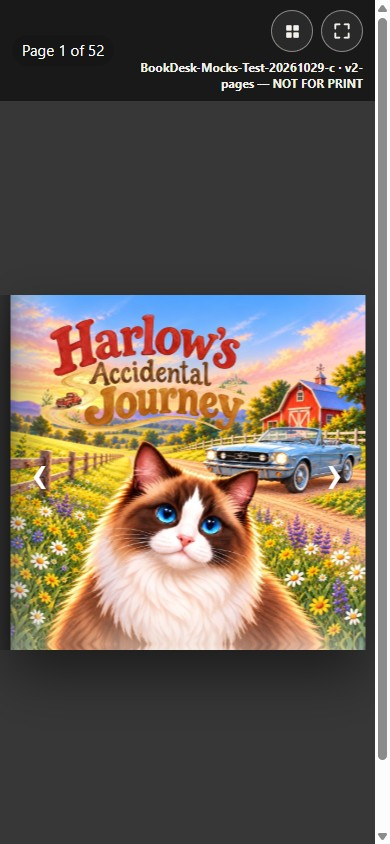
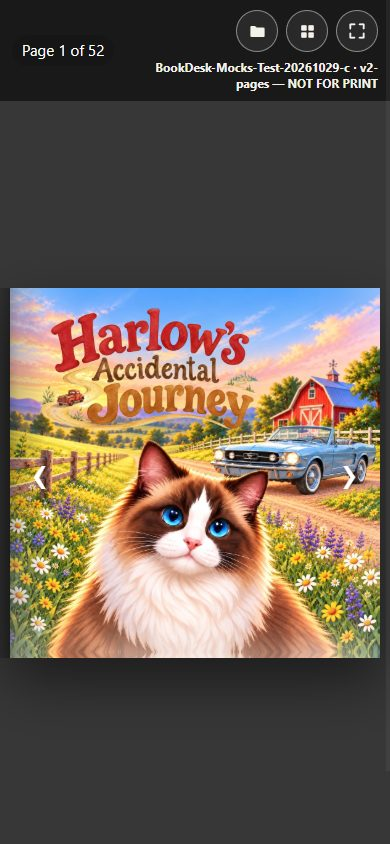
Open a folder of page images in the same viewer.
A folder or a drop of pictures becomes the book: numbered names stay in order, a wide picture splits at the fold, and a missing number is only a warning.

diff --git a/flipbook18.html b/flipbook18.html
@@ -11,9 +11,16 @@
   #counter{background:rgba(20,20,20,.55);color:#fff;border-radius:999px;padding:6px 12px;white-space:nowrap}
   #mark{white-space:nowrap}
   #notice{display:none;position:absolute;left:12px;right:12px;bottom:12px;z-index:8;background:rgba(20,20,20,.88);color:#f4f1ea;border-radius:10px;padding:8px 12px;font-size:13px;pointer-events:none}
-  #fs,#pagesBtn{flex:0 0 auto;width:42px;height:42px;padding:0;display:inline-flex;align-items:center;justify-content:center;background:rgba(255,255,255,.07);color:#f4f1ea;border:1px solid rgba(244,241,234,.45);border-radius:50%;cursor:pointer;font:inherit}
+  #folderPop{position:absolute;top:62px;right:18px;z-index:9;display:flex;flex-direction:column;gap:10px;background:#242424;color:#f4f1ea;border:1px solid rgba(244,241,234,.35);border-radius:12px;padding:12px 14px;font-size:14px}
+  #folderPop[hidden]{display:none}
+  #folderPop label{display:flex;align-items:center;gap:8px}
+  #folderGo{background:#e8b34b;color:#191919;border:0;border-radius:999px;padding:8px 12px;font:inherit;cursor:pointer}
+  #loadBar{position:absolute;left:0;right:0;top:0;height:3px;z-index:7;background:transparent}
+  #loadBar[hidden]{display:none}
+  #loadFill{height:100%;width:0;background:#e8b34b}
+  #fs,#pagesBtn,#folderBtn{flex:0 0 auto;width:42px;height:42px;padding:0;display:inline-flex;align-items:center;justify-content:center;background:rgba(255,255,255,.07);color:#f4f1ea;border:1px solid rgba(244,241,234,.45);border-radius:50%;cursor:pointer;font:inherit}
   #fs svg{width:20px;height:20px;stroke:#f4f1ea;fill:none;stroke-width:2.2;stroke-linecap:round;stroke-linejoin:round;display:block}
-  #pagesBtn svg{width:19px;height:19px;fill:#f4f1ea;display:block}
+  #pagesBtn svg,#folderBtn svg{width:19px;height:19px;fill:#f4f1ea;display:block}
   #stage{flex:1;width:100%;min-height:0;background:#373737;display:flex;align-items:center;justify-content:center;position:relative;overflow:hidden}
   #bookWrap{position:relative;z-index:1;cursor:grab;touch-action:none;will-change:transform}
   #bookWrap.grabbing{cursor:grabbing}
@@ -63,7 +70,8 @@
 </style></head>
 <body>
   <div id="viewer">
-    <div id="banner"><span id="counter">Page 1 of 52</span><span id="tools"><strong id="mark">BookDesk-Mocks-Test-20261029-c · v2-pages — NOT FOR PRINT</strong><button id="pagesBtn" type="button" aria-label="Pages" title="Pages"><svg viewBox="0 0 24 24" aria-hidden="true"><rect x="4" y="4" width="7" height="7" rx="1.5"/><rect x="13" y="4" width="7" height="7" rx="1.5"/><rect x="4" y="13" width="7" height="7" rx="1.5"/><rect x="13" y="13" width="7" height="7" rx="1.5"/></svg></button><button id="fs" type="button" aria-label="Full screen"><svg viewBox="0 0 24 24" aria-hidden="true"><path d="M9 4H4v5M15 4h5v5M9 20H4v-5M15 20h5v-5"/></svg></button></span></div>
+    <div id="loadBar" hidden><div id="loadFill"></div></div>
+    <div id="banner"><span id="counter">Page 1 of 52</span><span id="tools"><strong id="mark">BookDesk-Mocks-Test-20261029-c · v2-pages — NOT FOR PRINT</strong><button id="folderBtn" type="button" aria-label="Open a folder of images" title="Open a folder of images"><svg viewBox="0 0 24 24" aria-hidden="true"><path d="M3 6.5A1.5 1.5 0 0 1 4.5 5H9l2 2h8.5A1.5 1.5 0 0 1 21 8.5v9A1.5 1.5 0 0 1 19.5 19h-15A1.5 1.5 0 0 1 3 17.5z"/></svg></button><button id="pagesBtn" type="button" aria-label="Pages" title="Pages"><svg viewBox="0 0 24 24" aria-hidden="true"><rect x="4" y="4" width="7" height="7" rx="1.5"/><rect x="13" y="4" width="7" height="7" rx="1.5"/><rect x="4" y="13" width="7" height="7" rx="1.5"/><rect x="13" y="13" width="7" height="7" rx="1.5"/></svg></button><button id="fs" type="button" aria-label="Full screen"><svg viewBox="0 0 24 24" aria-hidden="true"><path d="M9 4H4v5M15 4h5v5M9 20H4v-5M15 20h5v-5"/></svg></button></span></div>
     <div id="stage">
       <button id="prev" class="arrow" type="button" aria-label="Previous">&#8249;</button>
       <button id="next" class="arrow" type="button" aria-label="Next">&#8250;</button>
@@ -81,6 +89,8 @@
         <div id="spineShade"></div>
       </div></div></div>
     </div>
+    <div id="folderPop" hidden><label><input id="coverFirst" type="checkbox" checked> First image is the cover</label><button id="folderGo" type="button">Choose folder</button></div>
+    <input id="folderPick" type="file" accept=".jpg,.jpeg,.png,.webp,image/jpeg,image/png,image/webp" webkitdirectory multiple hidden>
     <div id="notice" role="status"></div>
     <div id="sheet" aria-hidden="true">
       <div id="sheetBar"><span id="sheetTitle">Pages — tap one to jump there</span><button id="sheetClose" type="button" aria-label="Close pages"><svg viewBox="0 0 24 24" aria-hidden="true"><path d="M6 6l12 12M18 6L6 18"/></svg></button></div>
@@ -258,6 +268,7 @@
     var pageSize = 300;
     var camX = 0, camAnim = null;
     var animating = false;
+    var pendingBook = false;
     var pendingDir = null;   // one-deep queue: a tap mid-flip lines up the next turn
     var REDUCED = !!(window.matchMedia && window.matchMedia("(prefers-reduced-motion: reduce)").matches);
     var FLIP_MS = REDUCED ? 320 : 950;
@@ -293,15 +304,17 @@
       counter.textContent = label();
     }
 
+    var blankNote = "";
     function label() {
+      var text;
       if (focusMode) {
-        if (flipped === 0) return "Page 1 of " + N;
-        if (flipped === HALF) return "Page " + N + " of " + N;
-        return "Page " + (focus === 0 ? 2 * flipped : 2 * flipped + 1) + " of " + N;
-      }
-      if (flipped === 0) return "Page 1 of " + N;
-      if (flipped === HALF) return "Page " + N + " of " + N;
-      return "Page " + (2 * flipped) + "–" + (2 * flipped + 1) + " of " + N;
+        if (flipped === 0) text = "Page 1 of " + N;
+        else if (flipped === HALF) text = "Page " + N + " of " + N;
+        else text = "Page " + (focus === 0 ? 2 * flipped : 2 * flipped + 1) + " of " + N;
+      } else if (flipped === 0) text = "Page 1 of " + N;
+      else if (flipped === HALF) text = "Page " + N + " of " + N;
+      else text = "Page " + (2 * flipped) + "–" + (2 * flipped + 1) + " of " + N;
+      return blankNote ? text + " · " + blankNote : text;
     }
 
     function render() {
@@ -458,6 +471,7 @@
         if (raw < 1) { requestAnimationFrame(frame); return; }
         hideLeaf();
         animating = false;
+        if (pendingBook) { pendingBook = false; render(); }
         if (onDone) onDone();
         if (pendingDir) {
           var pd = pendingDir;
@@ -723,6 +737,221 @@
       scheduleFit();
       if (sheet.classList.contains("open")) setTimeout(buildStrip, 260);
     });
+
+    /* Folder of images. The manifest book stays the default until a folder arrives. */
+    var blankCanvas = document.createElement("canvas");
+    blankCanvas.width = 8; blankCanvas.height = 8;
+    var blankCtx = blankCanvas.getContext("2d");
+    blankCtx.fillStyle = "#f4f1ea";
+    blankCtx.fillRect(0, 0, 8, 8);
+    var BLANK = blankCanvas.toDataURL("image/jpeg", 0.8);
+    var folderBtn = document.getElementById("folderBtn");
+    var folderPop = document.getElementById("folderPop");
+    var folderPick = document.getElementById("folderPick");
+    var loadBar = document.getElementById("loadBar");
+    var loadFill = document.getElementById("loadFill");
+    var folderGen = 0;
+    var tempBlank = false;
+    var coverOpened = false;
+    folderBtn.onclick = function () { folderPop.hidden = !folderPop.hidden; };
+    document.getElementById("folderGo").onclick = function () { folderPick.click(); };
+    folderPick.onchange = function () {
+      folderPop.hidden = true;
+      if (folderPick.files && folderPick.files.length) takeFiles(folderPick.files);
+      folderPick.value = "";
+    };
+    viewer.addEventListener("dragover", function (e) { e.preventDefault(); });
+    viewer.addEventListener("drop", function (e) {
+      e.preventDefault();
+      folderPop.hidden = true;
+      var items = e.dataTransfer && e.dataTransfer.items;
+      if (!items || !items.length) { takeFiles(e.dataTransfer.files); return; }
+      Promise.all([].map.call(items, readDropItem)).then(function (groups) {
+        var flat = [];
+        groups.forEach(function (g) { flat = flat.concat(g); });
+        takeFiles(flat);
+      });
+    });
+    function readDropItem(item) {
+      return new Promise(function (resolve) {
+        var entry = item.webkitGetAsEntry && item.webkitGetAsEntry();
+        if (!entry) { var one = item.getAsFile && item.getAsFile(); resolve(one ? [one] : []); return; }
+        if (entry.isFile) { entry.file(function (f) { resolve([f]); }, function () { resolve([]); }); return; }
+        var reader = entry.createReader();
+        var all = [];
+        function batch() {
+          reader.readEntries(function (entries) {
+            if (!entries.length) { resolve(all); return; }
+            var pending = entries.length;
+            entries.forEach(function (ent) {
+              if (!ent.isFile) { if (--pending === 0) batch(); return; }
+              ent.file(function (f) { all.push(f); if (--pending === 0) batch(); }, function () { if (--pending === 0) batch(); });
+            });
+          }, function () { resolve(all); });
+        }
+        batch();
+      });
+    }
+    function isPageFile(file) {
+      var name = (file.name || "").toLowerCase();
+      if (name === "thumbs.db" || name === ".ds_store" || name === "desktop.ini") return false;
+      var rel = file.webkitRelativePath || "";
+      if (rel && rel.split("/").length > 2) return false;
+      return /\.(jpe?g|png|webp)$/.test(name);
+    }
+    function firstNumber(name) { var m = String(name).match(/\d+/); return m ? parseInt(m[0], 10) : null; }
+    function sortFiles(files) {
+      return files.slice().sort(function (a, b) {
+        var na = firstNumber(a.name), nb = firstNumber(b.name);
+        if (na !== null && nb !== null && na !== nb) return na - nb;
+        if (na !== null && nb === null) return -1;
+        if (na === null && nb !== null) return 1;
+        return a.name.localeCompare(b.name, undefined, { numeric: true, sensitivity: "base" });
+      });
+    }
+    function gapWarnings(files) {
+      var seen = {}, dups = {}, nums = [];
+      files.forEach(function (f) {
+        var n = firstNumber(f.name);
+        if (n === null) return;
+        if (seen[n]) dups[n] = true;
+        seen[n] = true;
+        nums.push(n);
+      });
+      nums.sort(function (a, b) { return a - b; });
+      var missing = [];
+      if (nums.length) {
+        for (var n = nums[0]; n < nums[nums.length - 1]; n++) if (!seen[n]) missing.push(n);
+      }
+      var out = [];
+      var start = null, prev = null;
+      function flush() {
+        if (start === null) return;
+        out.push(start === prev ? "No page " + start + " found." : "No pages " + start + "–" + prev + " found.");
+        start = prev = null;
+      }
+      missing.forEach(function (n) {
+        if (start === null) { start = prev = n; return; }
+        if (n === prev + 1) { prev = n; return; }
+        flush();
+        start = prev = n;
+      });
+      flush();
+      Object.keys(dups).forEach(function (n) { out.push("Two files numbered " + n + "."); });
+      return out;
+    }
+    function paintSlice(im, sx, sy, sw, sh) {
+      var maxSide = 1600;
+      var scale = Math.min(1, maxSide / Math.max(sw, sh));
+      var c = document.createElement("canvas");
+      c.width = Math.max(1, Math.round(sw * scale));
+      c.height = Math.max(1, Math.round(sh * scale));
+      c.getContext("2d").drawImage(im, sx, sy, sw, sh, 0, 0, c.width, c.height);
+      return c.toDataURL("image/jpeg", 0.85);
+    }
+    function fileToPages(file) {
+      return new Promise(function (resolve, reject) {
+        var reader = new FileReader();
+        reader.onerror = function () { reject(new Error("read")); };
+        reader.onload = function () {
+          var im = new Image();
+          im.onload = function () {
+            var w = im.naturalWidth, h = im.naturalHeight;
+            if (w / h >= 1.45) resolve([paintSlice(im, 0, 0, w / 2, h), paintSlice(im, w / 2, 0, w / 2, h)]);
+            else resolve([paintSlice(im, 0, 0, w, h)]);
+          };
+          im.onerror = function () { reject(new Error("image")); };
+          im.src = reader.result;
+        };
+        reader.readAsDataURL(file);
+      });
+    }
+    function pushPage(src) {
+      PAGES.push(src);
+      var im = new Image();
+      im.src = pageSrc(src);
+      pageImgs.push(im);
+    }
+    function dropTempBlank() {
+      if (!tempBlank) return;
+      PAGES.pop();
+      pageImgs.pop();
+      tempBlank = false;
+    }
+    function ensureEven() {
+      if (PAGES.length % 2 === 0) return;
+      pushPage(BLANK);
+      tempBlank = true;
+    }
+    function showBook(reset, coverOn) {
+      N = PAGES.length;
+      HALF = N / 2;
+      if (!coverOn && !coverOpened && flipped === 0 && N >= 4) { flipped = 1; focus = 0; coverOpened = true; }
+      if (reset) {
+        flipped = (!coverOn && N >= 4) ? 1 : 0;
+        focus = 0;
+        animating = false;
+        hideLeaf();
+        render();
+        fit();
+      } else if (animating) pendingBook = true;
+      else {
+        if (flipped > HALF) flipped = HALF;
+        render();
+      }
+      if (sheet.classList.contains("open")) buildStrip();
+    }
+    function takeFiles(fileList) {
+      var gen = ++folderGen;
+      var files = [];
+      for (var i = 0; i < fileList.length; i++) if (isPageFile(fileList[i])) files.push(fileList[i]);
+      if (!files.length) { reportNotice("No page images in that folder."); return; }
+      files = sortFiles(files);
+      var warnings = gapWarnings(files);
+      var coverOn = document.getElementById("coverFirst").checked;
+      blankNote = "";
+      tempBlank = false;
+      coverOpened = false;
+      PAGES = [];
+      pageImgs = [];
+      if (!coverOn) pushPage(BLANK);
+      var opened = false;
+      loadBar.hidden = false;
+      loadFill.style.width = "0%";
+      function say() {
+        var parts = warnings.slice();
+        if (blankNote) parts.push("A blank page was added so the last opening has a facing page.");
+        if (parts.length) reportNotice(parts.join(" "));
+        else { noticeEl.textContent = ""; noticeEl.style.display = "none"; }
+      }
+      function step(i) {
+        if (gen !== folderGen) return;
+        if (i >= files.length) {
+          dropTempBlank();
+          if (PAGES.length % 2) { pushPage(BLANK); blankNote = "blank page added"; }
+          showBook(!opened, coverOn);
+          opened = true;
+          loadBar.hidden = true;
+          say();
+          return;
+        }
+        fileToPages(files[i]).then(function (parts) {
+          if (gen !== folderGen) return;
+          dropTempBlank();
+          parts.forEach(pushPage);
+          ensureEven();
+          showBook(!opened, coverOn);
+          opened = true;
+          loadFill.style.width = Math.round(((i + 1) / files.length) * 100) + "%";
+          step(i + 1);
+        }).catch(function () {
+          warnings.push("Could not read " + files[i].name + ".");
+          step(i + 1);
+        });
+      }
+      step(0);
+    }
+
     fit();
   }
   if (location.protocol === "file:") {

diff --git a/README.md b/README.md
@@ -16,27 +16,27 @@
 
 Double-click `flipbook18.html` to open the same viewer with no server. The page images ride along as data URIs, so the 3D turn still works. GitHub Pages does not download that file; it keeps using the JPGs.
 
-![Harlow cover on the dark hardcover stage](https://github.com/MyDigitalStudioz/3D-Flip-BookVizon/raw/main/media/hero.jpg?v=20261029-1)
+![Harlow cover on the dark hardcover stage](https://github.com/MyDigitalStudioz/3D-Flip-BookVizon/raw/3D-Flip-BookVizon-v1/media/hero.jpg?v=20261029-2)
 
 ## Screenshots
 
-Captured from the live Pages site. Refresh these files, and the `?v=` stamp, whenever the viewer changes.
+Captured from the working viewer on `3D-Flip-BookVizon-v1`. Refresh these files, and the `?v=` stamp, whenever the viewer changes. Pages still serves `main`.
 
 **Cover** — the book closed on the dark stage.
 
-![Harlow cover](https://github.com/MyDigitalStudioz/3D-Flip-BookVizon/raw/main/media/hero.jpg?v=20261029-1)
+![Harlow cover](https://github.com/MyDigitalStudioz/3D-Flip-BookVizon/raw/3D-Flip-BookVizon-v1/media/hero.jpg?v=20261029-2)
 
 **Mid-book** — pages 4–5, the first story spread.
 
-![Story spread, pages 4 and 5](https://github.com/MyDigitalStudioz/3D-Flip-BookVizon/raw/main/media/spread.jpg?v=20261029-1)
+![Story spread, pages 4 and 5](https://github.com/MyDigitalStudioz/3D-Flip-BookVizon/raw/3D-Flip-BookVizon-v1/media/spread.jpg?v=20261029-2)
 
 **Phone** — the same cover at a 390px-wide window.
 
-![Phone view of the cover](https://github.com/MyDigitalStudioz/3D-Flip-BookVizon/raw/main/media/mobile.jpg?v=20261029-1)
+![Phone view of the cover](https://github.com/MyDigitalStudioz/3D-Flip-BookVizon/raw/3D-Flip-BookVizon-v1/media/mobile.jpg?v=20261029-2)
 
 ## What's inside
 
-- `flipbook18.html` — the hardcover viewer. Future tweaks start here.
+- `flipbook18.html` — the hardcover viewer. Future tweaks start here. The folder button opens a folder of images, or you can drop the folder on the page.
 - `index.html` — opens that viewer.
 - `flipbook1/` — the book: `manifest.js` plus the page images and favicon. The HTML file loads them by relative path, so the folder stays beside it.
 - `flipbook1/pages-data.js` — those same JPGs as data URIs, loaded only when the page is opened from disk. The JPGs stay the source. Rebuild with `python scripts/build-pages-data.py` after a page image changes.
@@ -46,7 +46,9 @@ The pages are the Harlow review mocks and are marked not for print.
 
 ## Design language
 
-Charcoal stage (`#191919`), cream page paper, and the painted art full-bleed on the leaf. Controls are small round buttons on the dark bar: a pages grid, a fullscreen mark, and white side arrows. The book sits centered with a soft shadow.
+Charcoal stage (`#191919`), cream page paper, and the painted art full-bleed on the leaf. Controls are small round buttons on the dark bar: a folder, a pages grid, a fullscreen mark, and white side arrows. The book sits centered with a soft shadow.
+
+The folder button takes a folder of JPG, PNG, or WebP pages. Files sort by the first number in the name. A wide image is treated as an open spread and split at the fold. The first image is the cover unless that box is unchecked. A missing number is a warning under the book; the pages still turn.
 
 ## Tech stack
 
